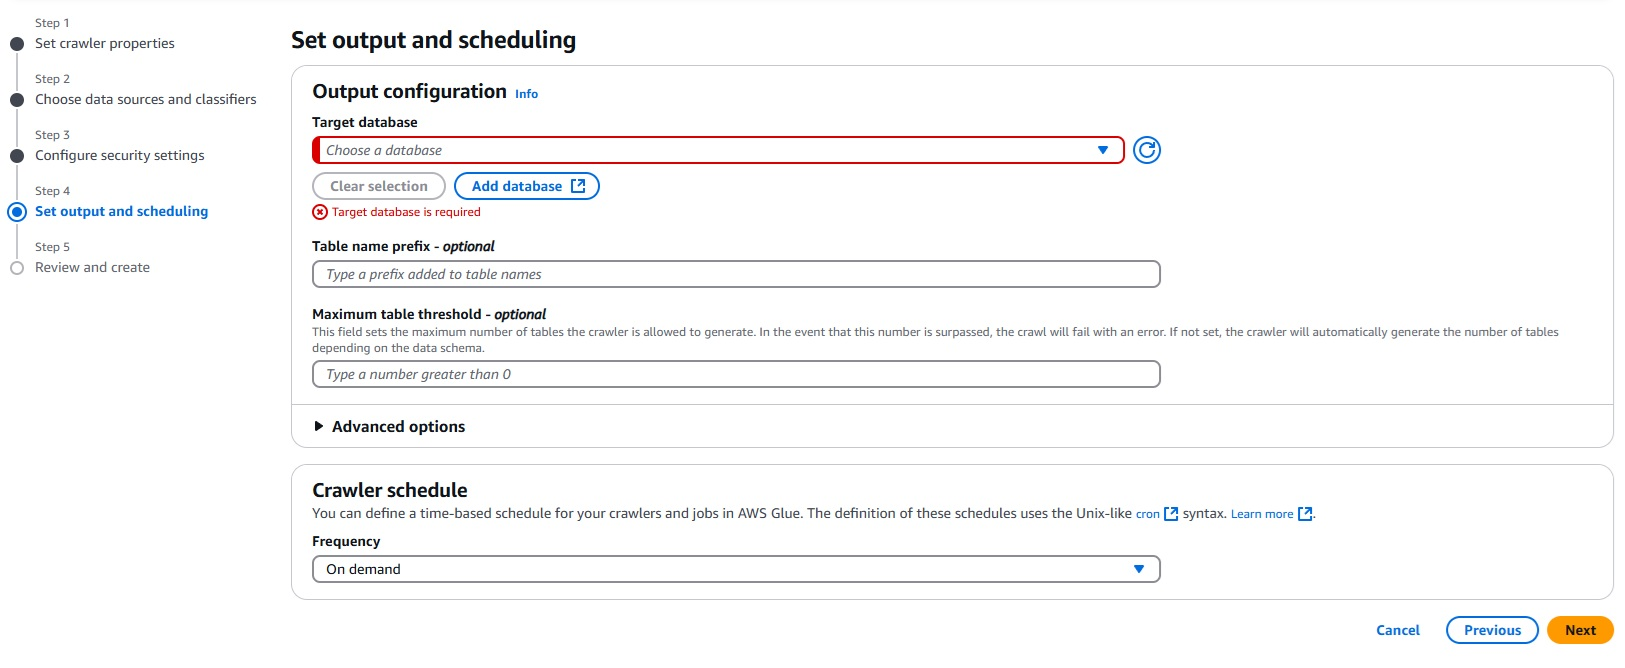
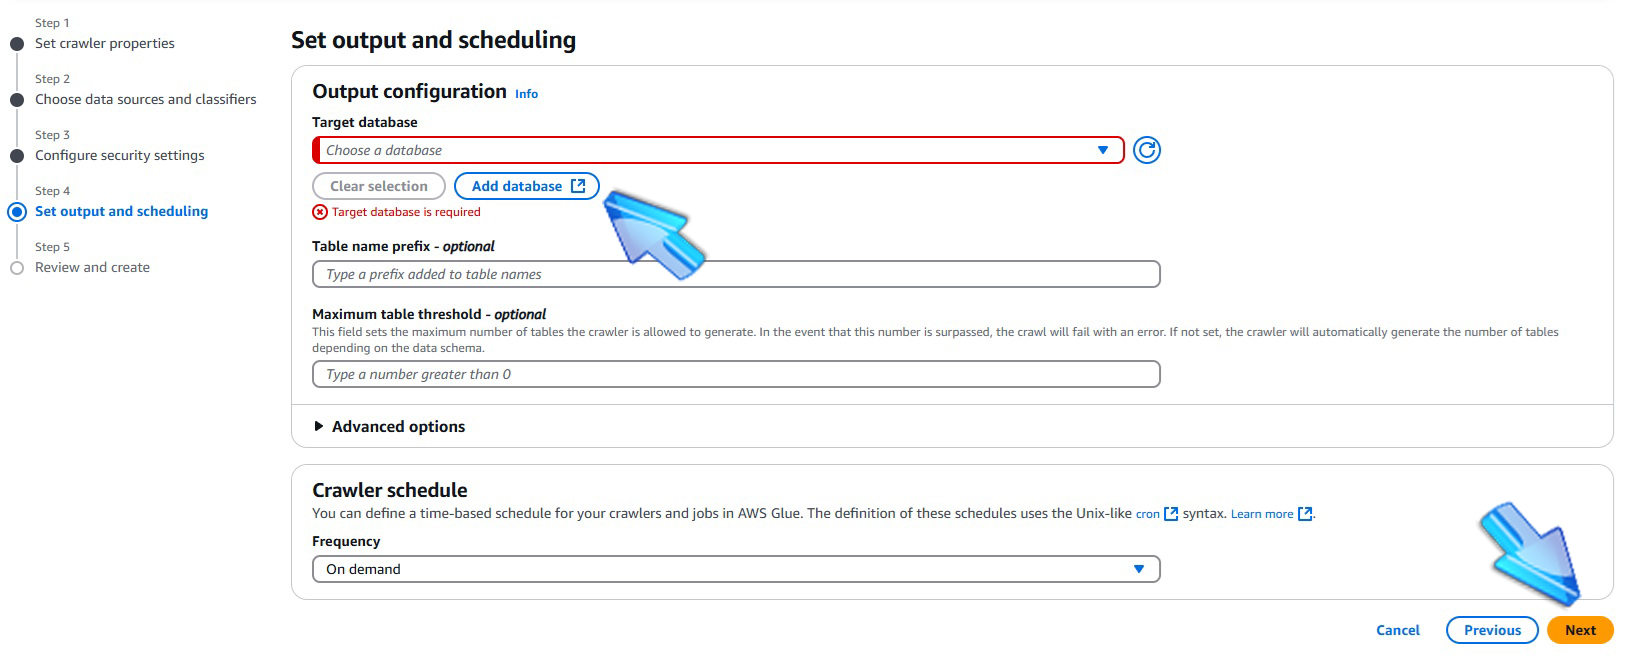
Update AWS Glue documentation images for crawler database creation

diff --git a/thisisthelab.md b/thisisthelab.md
@@ -164,4 +164,14 @@
 ![AWS Glue Crawler IAM ROLE Name](./images/18a-AWSGlueCrawlerIAMRoleName.jpg)
 ![AWS Glue Crawler security settings](./images/19a-AWSGlueCrawlerRoleCreated.jpg)
 
+# 3.4 - AWS Glue - Crawler Database Configuration
+
+###### ![Brazil](https://github.com/Acheroniano/flag-icon/blob/master/png/16/country-4x3/br.png "Brazil") 
+###### Configuração do *banco de dados* baseado no arquivo ![Files badge](https://img.shields.io/badge/customer.csv-%23000000?logo=Files&logoColor=yellow&labelColor=blue)](https://github.com/Acheroniano/aws-glue-crawlers-deepseek/blob/main/customer.csv) salvo no bucket *bucket-for-csv-rawdata-2025-03*.
+
+###### ![United States](https://github.com/Acheroniano/flag-icon/blob/master/png/16/country-4x3/us.png "United States") 
+###### Database configuration based on the file [Files badge](https://img.shields.io/badge/customer.csv-%23000000?logo=Files&logoColor=yellow&labelColor=blue)](https://github.com/Acheroniano/aws-glue-crawlers-deepseek/blob/main/customer.csv) saved in the bucket *bucket-for-csv-rawdata-2025-03*. 
+
+![AWS Glue Crawler Database](./images/20a-AWSGlueCrawlerDataBaseCreation.jpg)
+![AWS Glue Crwaler Database 2](./images/20a-AWSGlueCrawlerDataBaseCreation2.jpg)
 
